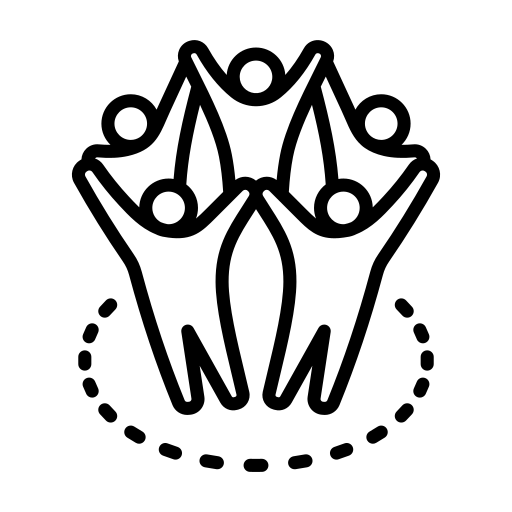
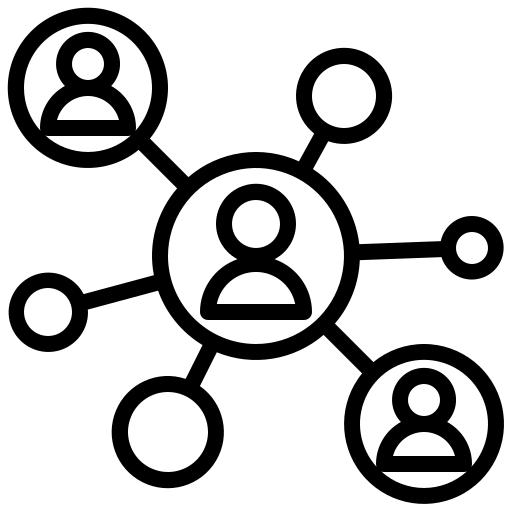
autocar cv draft

diff --git a/index.html b/index.html
@@ -250,7 +250,7 @@
         </div>
 
         <div class="cv-section" id="robotics">
-          <h2 class="cv-heading-with-links"><span class="cv-heading-title"><svg class="cv-heading-icon" aria-hidden="true"><use href="#cv-robotics"></use></svg>Robotics &amp; Engineering</span><span class="cv-heading-links"><a class="portfolio-link" href="pages/project-portfolio.html" aria-label="Open project portfolio">Project portfolio</a></span></h2>
+          <h2 class="cv-heading-with-links"><span class="cv-heading-title"><img class="cv-heading-image" src="images/robot.png" alt="">Robotics &amp; Engineering</span><span class="cv-heading-links"><a class="portfolio-link" href="pages/project-portfolio.html" aria-label="Open project portfolio">Project portfolio</a></span></h2>
           <ul>
             <li><strong>robotCar:</strong> Raspberry Pi-powered four-wheel robot that can sense obstacles, control its own movement, and make basic navigation decisions without a human driver. <span class="cv-tag-light">Python</span> <span class="cv-tag-light">OpenCV</span> <span class="cv-tag-light">Raspberry Pi</span> <span class="cv-tag-light">Computer Vision</span> <span class="cv-tag-light">Sensor Fusion</span> <span class="cv-tag-light">Motor Control</span> <span class="cv-tag-light">Embedded Systems</span> <span class="cv-timeframe">Jun 2026</span> <a class="project-link project-icon" href="pages/project-robot-car.html" aria-label="Open robotCar project" title="Open project details">↗</a></li>
             <li><strong>Whispering Hat:</strong> a wearable assistive computing system that detects nearby obstructions and speaks alerts to the wearer, while its perception, decisions, speech, and device controls run locally without Wi-Fi or cloud services. <span class="cv-tag-light">Python</span> <span class="cv-tag-light">Raspberry Pi</span> <span class="cv-tag-light">Computer Vision</span> <span class="cv-tag-light">Autonomous Navigation</span> <span class="cv-tag-light">Sensor Integration</span> <span class="cv-timeframe">Sep 2026</span> <a class="project-link project-icon" href="pages/project-whispering-hat.html" aria-label="Open Whispering Hat project" title="Open project details">↗</a></li>
@@ -275,7 +275,7 @@
         </div>
 
         <div class="cv-section" id="beyond-the-classroom">
-          <h2><img class="cv-heading-image" src="images/community.png" alt="">Community</h2>
+          <h2><img class="cv-heading-image" src="images/community.png" alt="" loading="eager">Community</h2>
           <ul>
             <li><strong>Tanzania chess education:</strong> introduced and teach chess at a school in Tanzania. <a class="project-link" href="pages/society-arise-school.html">Arise School ↗</a> <span class="cv-timeframe">2025–2026</span></li>
             <li><strong>Uganda refugee-camp chess support:</strong> supported children in a Uganda refugee camp through chess tablets. <a class="project-link" href="pages/society-arise-school.html">Raise Chess Academy ↗</a> · <a class="project-link" href="pages/society-rca-tables.html">Chess tablets ↗</a> <span class="cv-timeframe">2025–2026</span></li>
